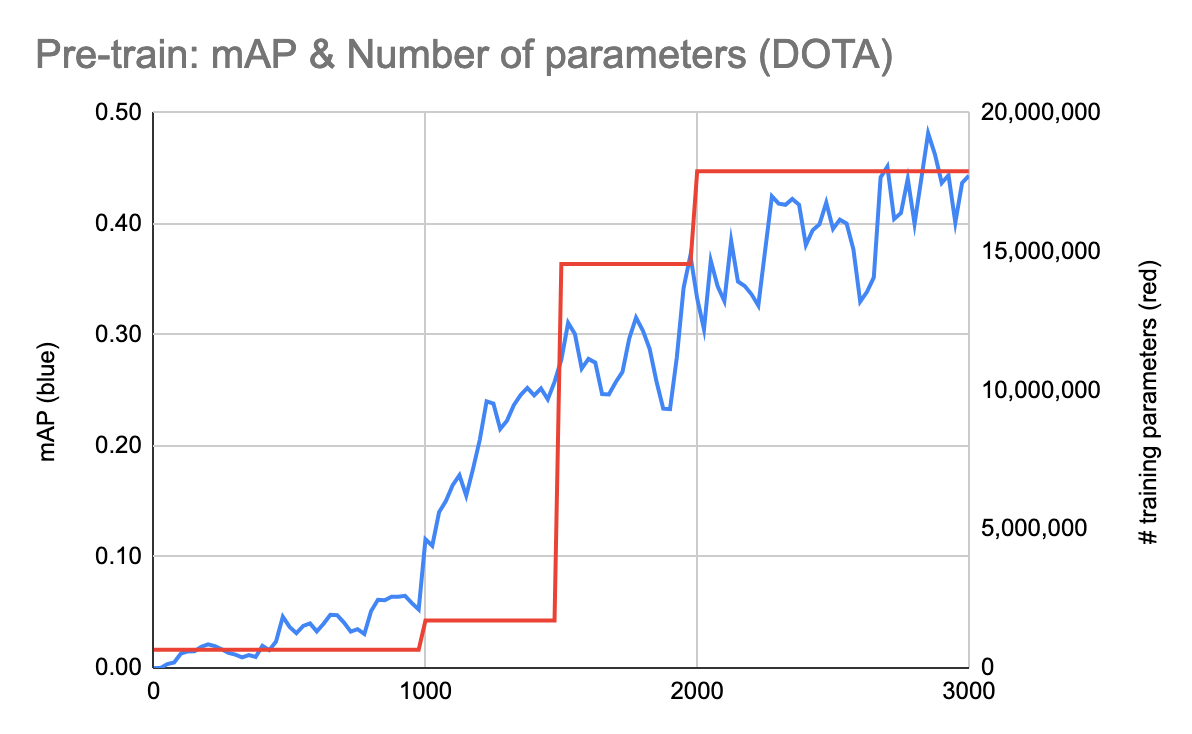
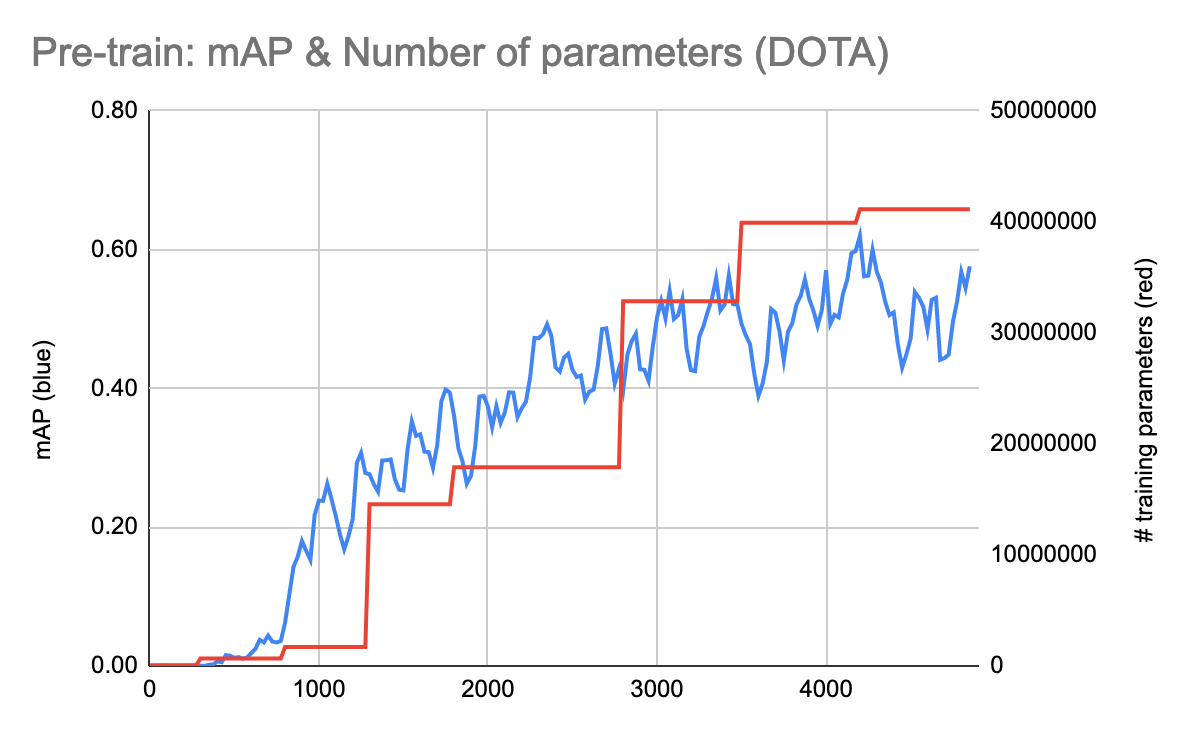
Train for longer

diff --git a/src/config.py b/src/config.py
@@ -3,7 +3,7 @@
 NB_PROCESSES = 6
 
 ## MODEL ##
-IMAGE_SIZE = 1024
+IMAGE_SIZE = 800
 BATCH_SIZE = 1
 EVAL_STEPS = 25
 CHECKPOINT_DIR = "./data/model"
@@ -23,22 +23,23 @@ PLOT_DETECTIONS_MIN_SCORE=.07
 
 ## GRADIENT SCHEDULES ##
 INIT_SCHEDULE = [
-    (1000, ["module.roi_heads.box_predictor", "module.rpn"]),
-    (500, ["module.roi_heads.box_predictor", "module.rpn", "module.roi_heads.box_head.fc7"]),
+    (300, ["module.roi_heads.box_predictor", "module.rpn.head.cls_logits", "module.rpn.head.bbox_pred"]),
+    (500, ["module.roi_heads.box_predictor", "module.rpn"]),
+    (500, ["module.roi_heads.box_predictor", "module.roi_heads.box_head.fc7", "module.rpn"]),
     (500, ["module.roi_heads", "module.rpn"]),
     (1000, ["module.roi_heads", "module.rpn", "module.backbone.fpn"]),
-    (500, ["module.roi_heads", "module.rpn", "module.backbone.fpn", "module.backbone.body.layer4"]),
-    (1000, ["module.roi_heads", "module.rpn", "module.backbone.fpn", "module.backbone.body.layer4", "module.backbone.body.layer3"]),
-    (1000, ["module.roi_heads", "module.rpn", "module.backbone.fpn", "module.backbone.body.layer4", "module.backbone.body.layer3", "module.backbone.body.layer2"]),
+    (700, ["module.roi_heads", "module.rpn", "module.backbone.fpn", "module.backbone.body.layer4"]),
+    (700, ["module.roi_heads", "module.rpn", "module.backbone.fpn", "module.backbone.body.layer4", "module.backbone.body.layer3"]),
+    (700, ["module.roi_heads", "module.rpn", "module.backbone.fpn", "module.backbone.body.layer4", "module.backbone.body.layer3", "module.backbone.body.layer2"]),
 ]
 
 TRAINED_SCHEDULE = [
-    (800, ["module.roi_heads.box_predictor", "module.rpn.head.cls_logits", "module.rpn.head.bbox_pred"]),
+    (300, ["module.roi_heads.box_predictor", "module.rpn.head.cls_logits", "module.rpn.head.bbox_pred"]),
     (500, ["module.roi_heads.box_predictor", "module.rpn"]),
-    (500, ["module.roi_heads.box_predictor", "module.rpn", "module.roi_heads.box_head.fc7"]),
+    (500, ["module.roi_heads.box_predictor", "module.roi_heads.box_head.fc7", "module.rpn"]),
     (500, ["module.roi_heads", "module.rpn"]),
     (1000, ["module.roi_heads", "module.rpn", "module.backbone.fpn"]),
-    (500, ["module.roi_heads", "module.rpn", "module.backbone.fpn", "module.backbone.body.layer4"]),
-    (1000, ["module.roi_heads", "module.rpn", "module.backbone.fpn", "module.backbone.body.layer4", "module.backbone.body.layer3"]),
-    (1000, ["module.roi_heads", "module.rpn", "module.backbone.fpn", "module.backbone.body.layer4", "module.backbone.body.layer3", "module.backbone.body.layer2"]),
+    (700, ["module.roi_heads", "module.rpn", "module.backbone.fpn", "module.backbone.body.layer4"]),
+    (700, ["module.roi_heads", "module.rpn", "module.backbone.fpn", "module.backbone.body.layer4", "module.backbone.body.layer3"]),
+    (2000, ["module.roi_heads", "module.rpn", "module.backbone.fpn", "module.backbone.body.layer4", "module.backbone.body.layer3", "module.backbone.body.layer2"]),
 ]

diff --git a/README.md b/README.md
@@ -57,7 +57,7 @@ The graph shows the convergence of the model on VEDAI, with and without pre-trai
 ## Other remarks
 
 #### Learning rate
-Since we have very few data samples and have a pre-trained model, we want to make adjustment very slowly. Therefore, and also because of the small batch size, we use an unusually low learning rate of `5e-5`.
+Since we have very few data samples and have a pre-trained model, we want to make adjustment very slowly. Therefore, and also because of the small batch size, we use an unusually low learning rate of `5e-5`. We decay this learning rate by a factor `0.3` twice during training.
 
 #### Bounding-Boxes in VEDAI
 The bounding boxes in VEDAI (and by selection, DOTA as well) are very small and some have extreme aspect rations.
@@ -95,7 +95,7 @@ As one can see from the loss, we do not suffer any over-fitting.
 For evaluation, we use the definition of the mean-average-precision from the VOC Pascal challenge (interpolated version).
 For speed reasons, the mAP is sampled every 25 training steps over one batch of the validation set. This means that we compute mAP on a per image basis and the average over images. 
 
-The graph below shows the evolution of the mAP calculated as such during training. The final value of the mAP is 55.9%.
+The graph below shows the evolution of the mAP calculated as such during training. The final value of the mAP is 57.0%.
 
 <p float="center">
 <img src="media/mAP_pretrain.png" alt="mAP_pretrain" width="400">
@@ -104,7 +104,4 @@ The graph below shows the evolution of the mAP calculated as such during trainin
 
 On the right axis, we show the number of parameter currently under training ie with gradients activated.
 
-Yet, mAP should correctly be computed over the whole validation set. This is what the script [run_eval.py](src/entrypoints/run_eval.py) does. Our actual mAP is closer to 31.5%. We believe that this result could be improved further without my hardware limitations ie no GPU available. In fact, we believe that raining longer on both DOTA and VEDAI, on the full image size (1024 instead of 900) (and potentially reducing the size of the validation set on DOTA) would further improve detection performance.
-
-
-
+Yet, mAP should correctly be computed over the whole validation set. This is what the script [run_eval.py](src/entrypoints/run_eval.py) does. Our actual mAP is closer to 54.6%. We believe that this result could be improved further without my hardware limitations ie no GPU available. In fact, we believe that training longer on both DOTA and VEDAI, on the full image size (1024 instead of 900) (and potentially reducing the size of the validation set on DOTA) would further improve detection performance.
